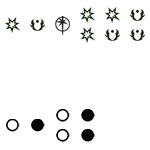
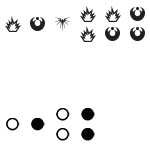
New EotE dice

diff --git a/tools/dice.php b/tools/dice.php
@@ -8,7 +8,7 @@
 				<div class="wingDivContent">
 					<select class="prettySelect">
 						<option value="basic">Basic Dice</option>
-<!--						<option value="sweote">Star Wars: Edge of the Empire</option>-->
+						<option value="sweote">Star Wars: Edge of the Empire</option>
 						<option value="fate">Fate Dice</option>
 					</select>
 				</div>
@@ -17,7 +17,7 @@
 			</div></div>
 			<h2 class="headerbar hbDark hb_hasButton">
 				<span class="dice_basic">Basic Dice</span>
-<!--				<span class="dice_sweote hideDiv">Star Wars: Edge of the Empire</span>-->
+				<span class="dice_sweote hideDiv">Star Wars: Edge of the Empire</span>
 				<span class="dice_fate hideDiv">Fate Dice</span>
 			</h2>
 			<div class="dice_basic">
@@ -48,7 +48,7 @@
 					</div>
 				</form>
 			</div>
-<!--			<div class="dice_sweote hideDiv">
+			<div class="dice_sweote hideDiv">
 				<div class="clearfix">
 					<div class="dicePool"></div>
 					<button id="sweote_roll" type="submit" name="roll" class="fancyButton rollBtn">Roll</button>
@@ -91,7 +91,7 @@
 						<span>Force</span>
 					</a>
 				</div>
-			</div>-->
+			</div>
 			<div class="dice_fate hideDiv hbdMargined">
 				<div class="clearfix">
 					<label for="fate_count">Number of dice: </label>
